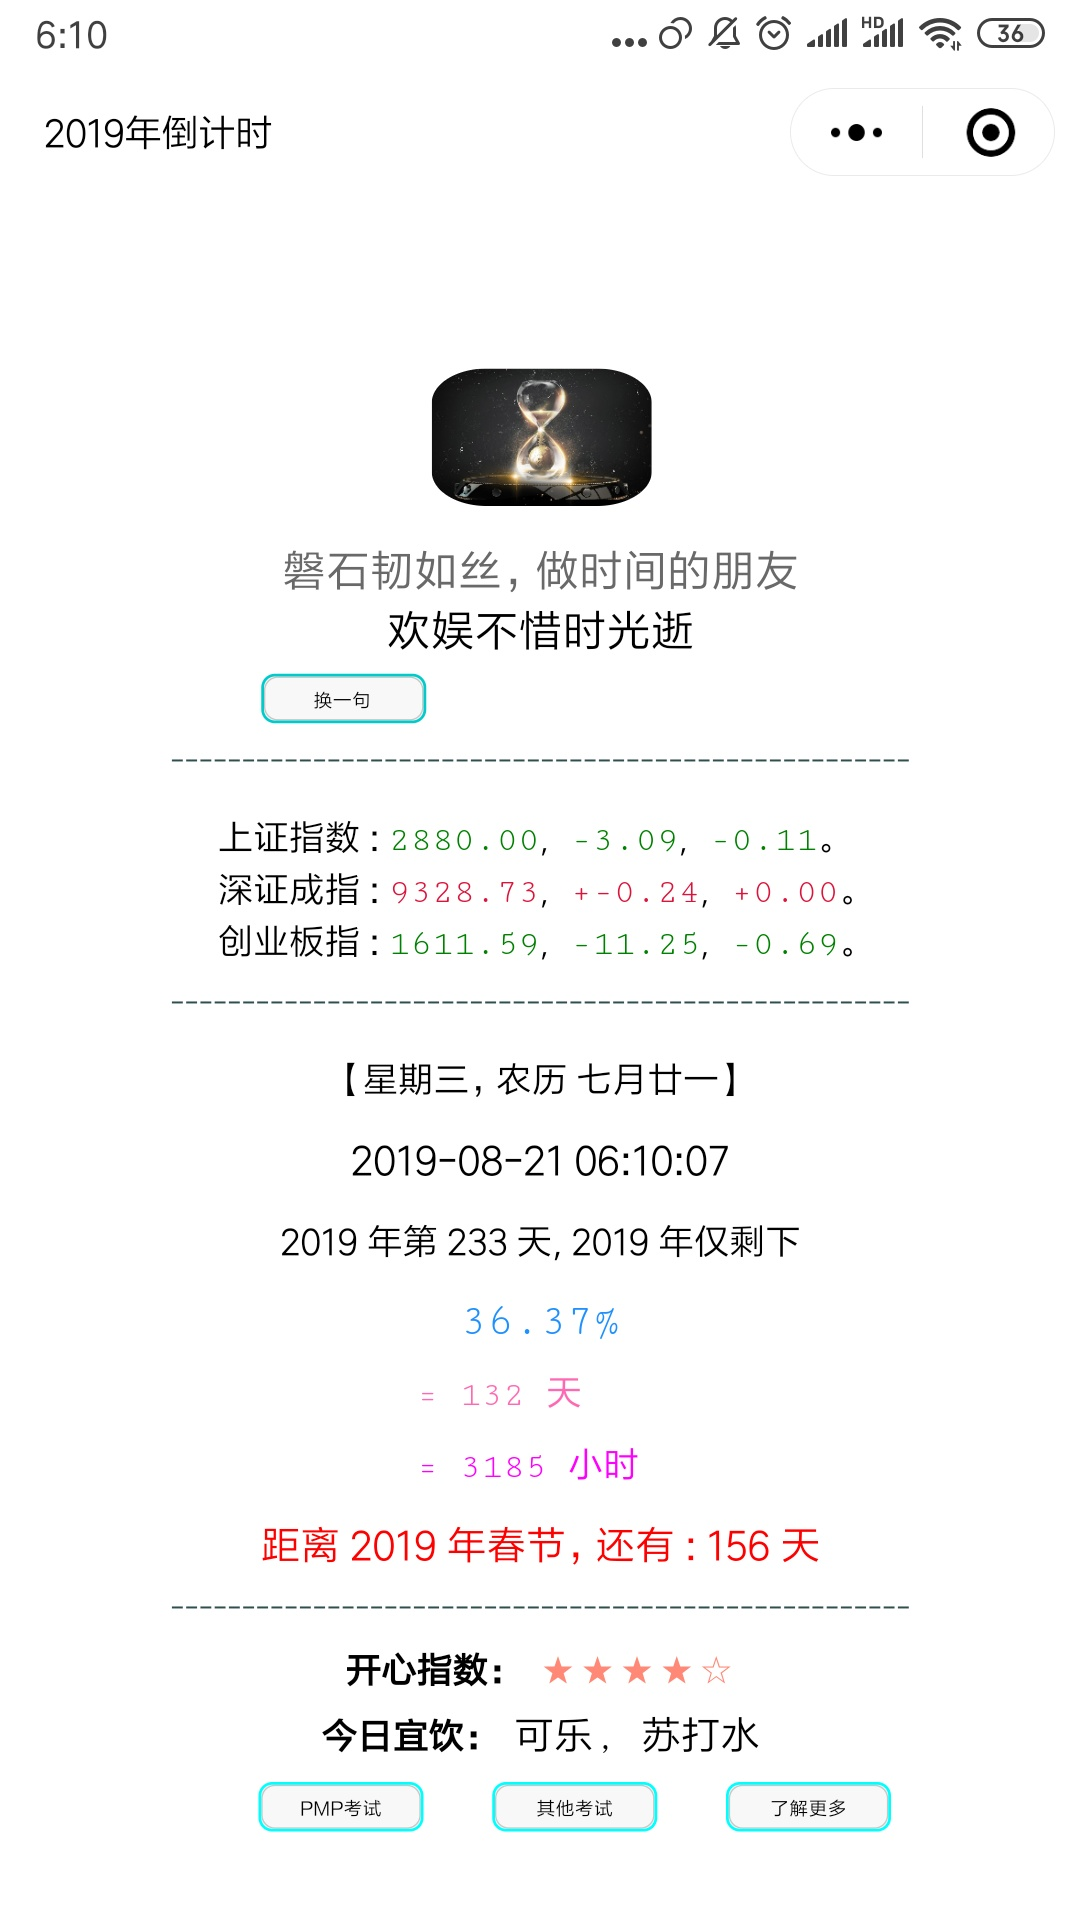
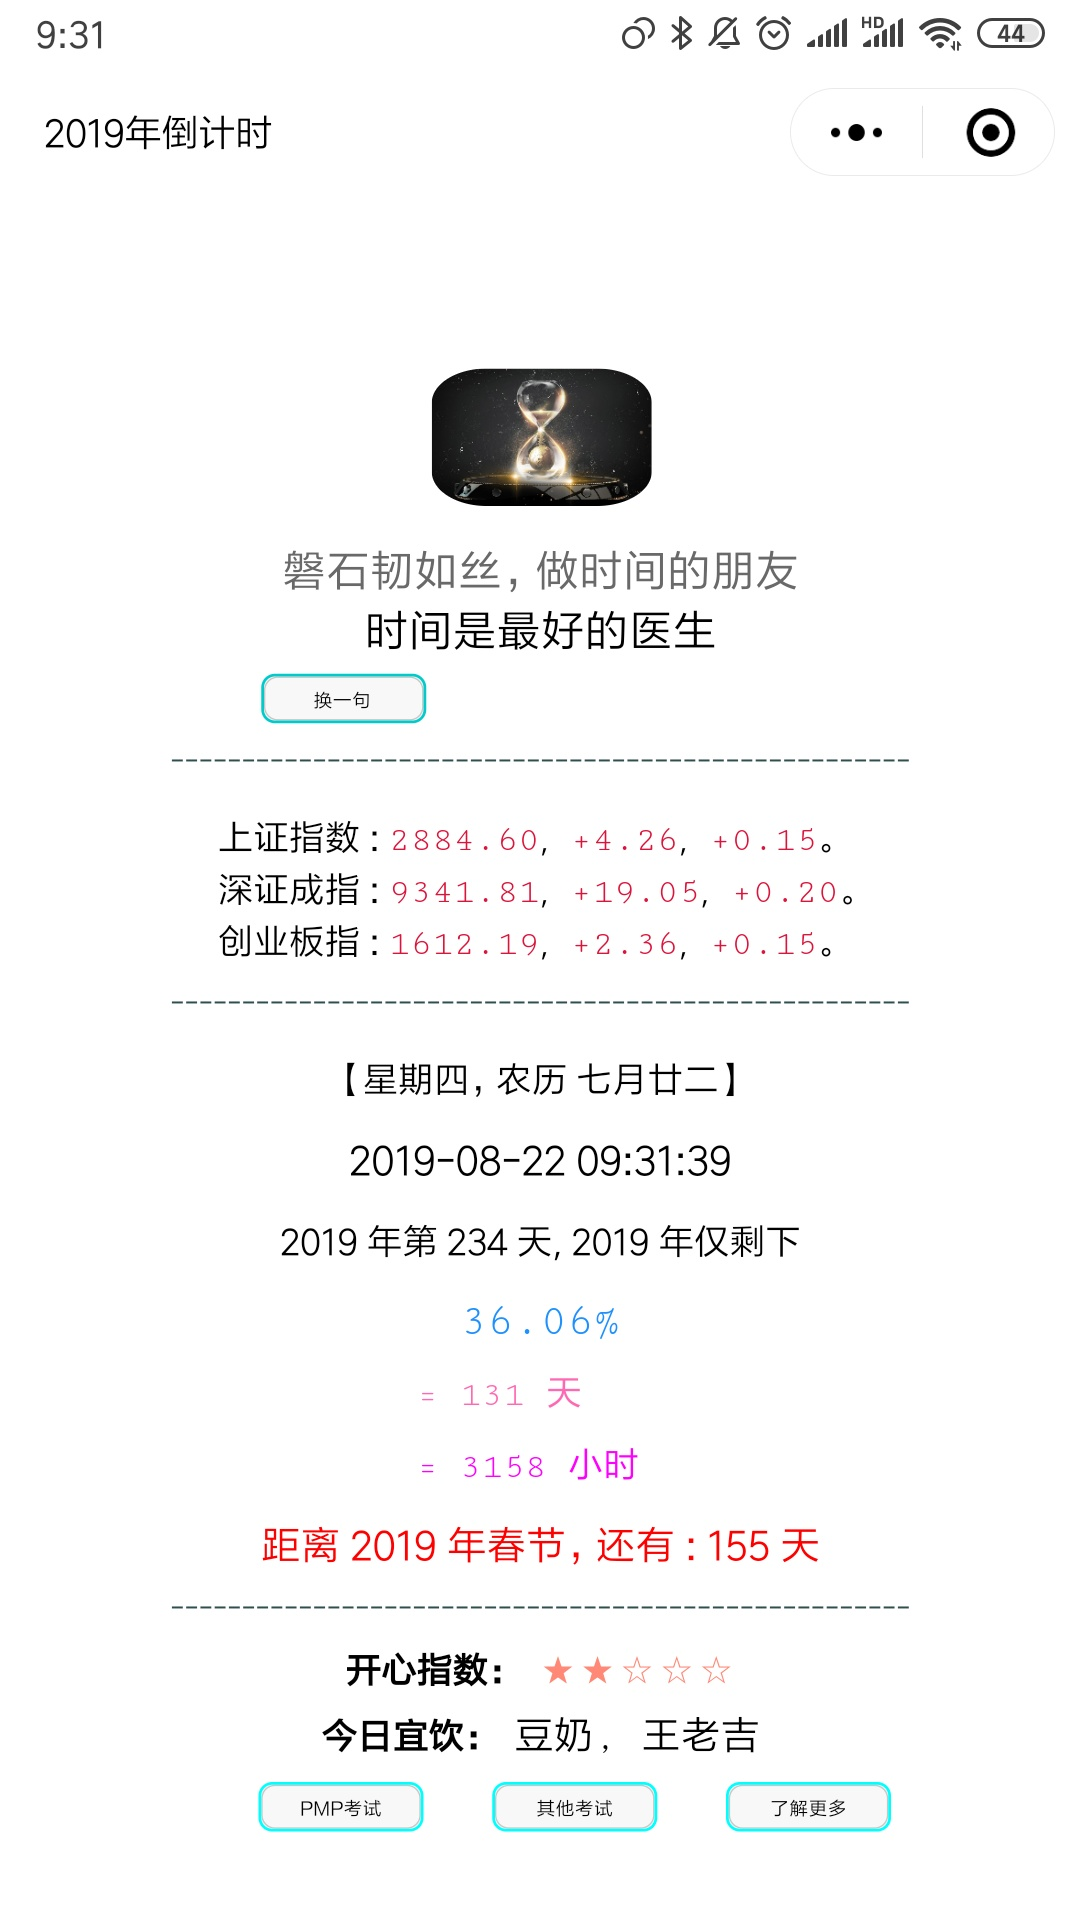
每日例行更新 - 20190822

diff --git a/source/_posts/001_2-FD_my_life_records-2019.md b/source/_posts/001_2-FD_my_life_records-2019.md
@@ -1,5 +1,5 @@
 ---
-title: 坚持的力量之数据人生-2019年8月21日
+title: 坚持的力量之数据人生-2019年8月22日
 tags:
   - 数据人生
   - 参考模板
@@ -20,14 +20,14 @@ keywords:
   - 宽978高553
 photos:
   - '/images/001_2/photos.png'
-description: 今天：2019 年 8 月 21 日，2019 年仅剩下 132 天。坚持记录和分析生活中的数据、信息和事件，尊重历史数据、信息和事件，人生将会更美好。
-date: 2019-08-21 00:02:05
+description: 今天：2019 年 8 月 22 日，2019 年仅剩下 131 天。坚持记录和分析生活中的数据、信息和事件，尊重历史数据、信息和事件，人生将会更美好。
+date: 2019-08-22 00:02:05
 ---
 <script type="text/javascript" src="/js/src/bai.js"></script>
 
-### 坚持的力量之数据人生-2019年8月21日
+### 坚持的力量之数据人生-2019年8月22日
 ------
-> 今天：2019 年 8 月 21 日，2019 年仅剩下 132 天。坚持记录和分析生活中的数据、信息和事件，尊重历史数据、信息和事件，人生将会更美好。
+> 今天：2019 年 8 月 22 日，2019 年仅剩下 131 天。坚持记录和分析生活中的数据、信息和事件，尊重历史数据、信息和事件，人生将会更美好。
 >
 > 序言：坚持记录和分析生活中的数据、信息和事件，尊重历史数据、信息和事件，人生将会更美好。
 
@@ -67,15 +67,15 @@ date: 2019-08-21 00:02:05
 
 | 序号 |       名称                                            |  类型  | 开始/结束日期 | 总天数 |          备注                           |
 | :--: | :---------------------------------------------------: | :----: | :-----------: | :----: | :-------------------------------------: |
-|  1   | <font color="#FF0000" size=2>读书荐书第 4/4 更</font> | 倒计时 | 2019/10/01    |  41    | 开始时间：2019/7/1                      |
-|  2   | <font color="#FF0000" size=2>重要节点</font>          | 倒计时 | 2020/03/01    |  196   | 开始时间：2018/6/15 剩余 10 个月        |
-|  3   | <font color="#0000FF" size=2>来上海</font>            | 计时   | 2011/06/25    |  2919  | 第 8 年进行中                           |
-|  4   | <font color="#0000FF" size=2>莫名其妙的计时</font>    | 计时   | 2018/11/12    |  278   | 莫名其妙的计时，希望永远不会停 ！！！   |
-|  5   | <font color="#0000FF" size=2>坚持减肥-3               | 计时   | 2019/08/31    |  22    | 坚持减肥，目标 65 公斤，保持一个月      |
+|  1   | <font color="#FF0000" size=2>读书荐书第 4/4 更</font> | 倒计时 | 2019/10/01    |  40    | 开始时间：2019/7/1                      |
+|  2   | <font color="#FF0000" size=2>重要节点</font>          | 倒计时 | 2020/03/01    |  195   | 开始时间：2018/6/15 剩余 10 个月        |
+|  3   | <font color="#0000FF" size=2>来上海</font>            | 计时   | 2011/06/25    |  2920  | 第 8 年进行中                           |
+|  4   | <font color="#0000FF" size=2>莫名其妙的计时</font>    | 计时   | 2018/11/12    |  279   | 莫名其妙的计时，希望永远不会停 ！！！   |
+|  5   | <font color="#0000FF" size=2>坚持减肥-3               | 计时   | 2019/08/31    |  23    | 坚持减肥，目标 65 公斤，保持一个月      |
 |  6   | <font color="#FF00FF" size=2>博客总计博文</font>      | 计数   | 2018/08/01    |  205   | [博客](/archives) 博文总计数目          |
 |  7   | <font color="#FF00FF" size=2>读书心得札记</font>      | 计数   | 2018/05/26    |  69    | [读书心得笔记并做笔记](/tags/札记人生/) |
 |  8   | <font color="#FF00FF" size=2>五篇好文推荐</font>      | 计数   | 2018/10/24    |  50    | [美文推荐](/tags/美文推荐/)             |
-|  9   | <font color="#FF00FF" size=2>公众号更新</font>        | 计数   | 2018/12/01    |  91    | [微信公众号（4 篇删除）](https://mp.weixin.qq.com/s/xxIkfGMFU7BaCeCJtdrtDg) |
+|  9   | <font color="#FF00FF" size=2>公众号更新</font>        | 计数   | 2018/12/01    |  92    | [微信公众号（4 篇删除）](https://mp.weixin.qq.com/s/xxIkfGMFU7BaCeCJtdrtDg) |
 
 #### 2. ❤ 今天记账了吗？记了，✔。 ❤
 ##### 2.1 记账信息详情
@@ -83,11 +83,11 @@ date: 2019-08-21 00:02:05
 
 | 日期                                   | 记账新增记录 | 记账总记录 | 记账总天数 | 记账时间      | 备注     |
 | :------:                               | :------:     | :------:   | :------:   | :------:      | :------: |
-|<font color="#000000"> 20190817 </font> | 3            | 10646      | 3099       | 8 年零 170 天 | 无       |
 |<font color="#000000"> 20190818 </font> | 11           | 10657      | 3100       | 8 年零 171 天 | 无       |
 |<font color="#000000"> 20190819 </font> | 16           | 10673      | 3101       | 8 年零 172 天 | 无       |
 |<font color="#000000"> 20190820 </font> | 3            | 10676      | 3102       | 8 年零 173 天 | 无       |
-|<font color="#FF0000"> 20190821 </font> | 2            | 10678      | 3103       | 8 年零 174 天 | 无       |
+|<font color="#000000"> 20190821 </font> | 2            | 10678      | 3103       | 8 年零 174 天 | 无       |
+|<font color="#FF0000"> 20190821 </font> | 5            | 10684      | 3104       | 8 年零 175 天 | 无       |
 
 
 #### 3. 历史数据汇总

diff --git a/source/_posts/001_1-FD_2018_year_all_checker-2019.md b/source/_posts/001_1-FD_2018_year_all_checker-2019.md
@@ -1,5 +1,5 @@
 ---
-title: 2019年每日日常综合打卡-2019年8月21日
+title: 2019年每日日常综合打卡-2019年8月22日
 tags:
   - 数据人生
   - 参考模板
@@ -21,14 +21,14 @@ keywords:
   - 宽978高553
 photos:
   - '/images/001_1/photos.png'
-description: 今天：2019 年 8 月 21 日，2019 年仅剩下 132 天。每天坚持打卡，8 月份针对每个任务打卡，慢慢来，一切都会更好的。
-date: 2019-08-21 00:01:01
+description: 今天：2019 年 8 月 22 日，2019 年仅剩下 131 天。每天坚持打卡，8 月份针对每个任务打卡，慢慢来，一切都会更好的。
+date: 2019-08-22 00:01:01
 ---
 <script type="text/javascript" src="/js/src/bai.js"></script>
 
-### 2019年每日日常综合打卡-2019年8月21日
+### 2019年每日日常综合打卡-2019年8月22日
 ---
-> 今天：2019 年 8 月 21 日，2018 年仅剩下 132 天。每日打卡，8 月份针对每个任务打卡，慢慢来，一切都会更好的。
+> 今天：2019 年 8 月 22 日，2018 年仅剩下 131 天。每日打卡，8 月份针对每个任务打卡，慢慢来，一切都会更好的。
 ---
 
 #### 2019 年年历
@@ -72,7 +72,7 @@ date: 2019-08-21 00:01:01
 | 19 |六 ⭕  |二 ⭕  |二 ⭕  |五 ⭕  |日 ⭕  |三 ⭕  |五 ⭕  |一 ⭕  |四     |六     |二     |四     |
 | 20 |日 ⭕  |三 ⭕  |三 ⭕  |六 ⭕  |一 ⭕  |四 ⭕  |六 ⭕  |二 ⭕  |五     |日     |三     |五     |
 | 21 |一 ⭕  |四 ⭕  |四 ⭕  |日 ⭕  |二 ⭕  |五 ⭕  |日 ⭕  |三 ⭕  |六     |一     |四     |六     |
-| 22 |二 ⭕  |五 ⭕  |五 ⭕  |一 ⭕  |三 ⭕  |六 ⭕  |一 ⭕  |四     |日     |二     |五     |日     |
+| 22 |二 ⭕  |五 ⭕  |五 ⭕  |一 ⭕  |三 ⭕  |六 ⭕  |一 ⭕  |四 ⭕  |日     |二     |五     |日     |
 | 23 |三 ⭕  |六 ⭕  |六 ⭕  |二 ⭕  |四 ⭕  |日 ⭕  |二 ⭕  |五     |一     |三     |六     |一     |
 | 24 |四 ⭕  |日 ⭕  |日 ⭕  |三 ⭕  |五 ⭕  |一 ⭕  |三 ⭕  |六     |二     |四     |日     |二     |
 | 25 |五 ⭕  |一 ⭕  |一 ⭕  |四 ⭕  |六 ⭕  |二 ⭕  |四 ⭕  |日     |三     |五     |一     |三     |
@@ -110,7 +110,7 @@ date: 2019-08-21 00:01:01
 | 19 <font color="#000000">一</font> | ⭕        | ⭕        | ⭕        | ⭕        | ❌         | ⭕        |           |
 | 20 <font color="#000000">二</font> | ⭕        | ⭕        | ⭕        | ⭕        | ❌         | ⭕        |           |
 | 21 <font color="#000000">三</font> | ⭕        | ⭕        | ⭕        | ⭕        | ❌         | ⭕        |           |
-| 22 <font color="#000000">四</font> |           |           |           |           |           |           |           |
+| 22 <font color="#000000">四</font> | ⭕        | ⭕        | ⭕        | ⭕        | ⭕        | ⭕        |           |
 | 23 <font color="#000000">五</font> |           |           |           |           |           |           |           |
 | 24 <font color="#FF0000">六</font> |           |           |           |           |           |           |           |
 | 25 <font color="#FF0000">日</font> |           |           |           |           |           |           |           |
